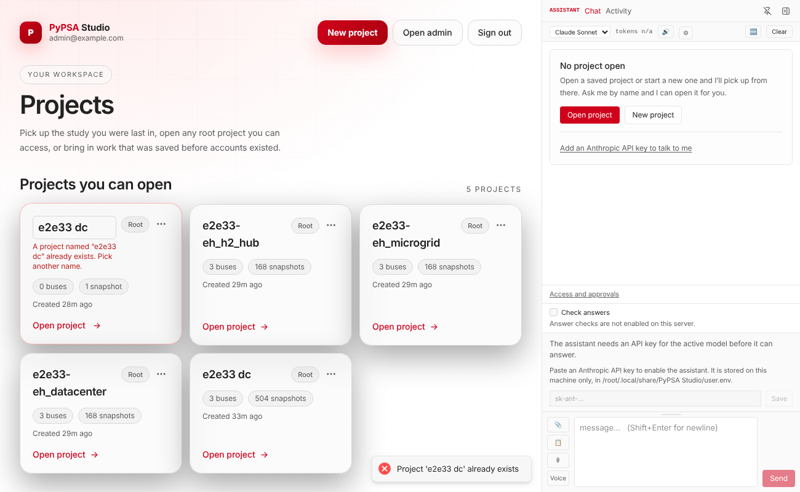
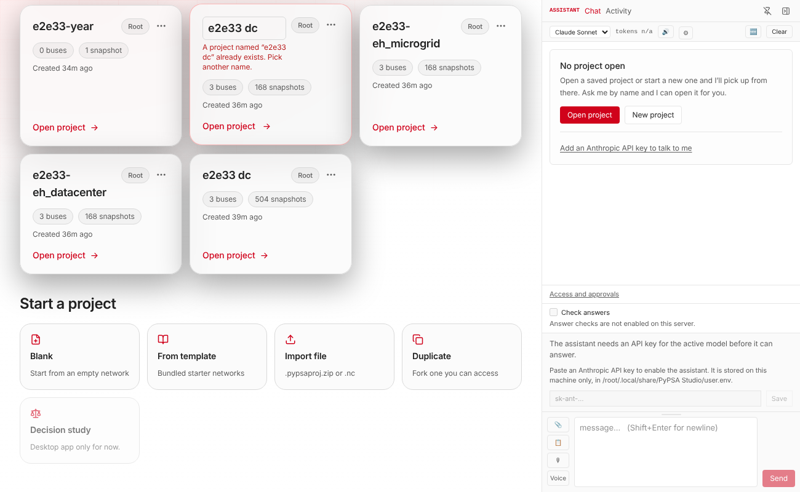
Card rename: refusal shows inline only, no global toast
Claude-Session: https://claude.ai/code/session_01G7qCuk6x8BhGjhotudeUKy

diff --git a/pypsa-gui/frontend/src/pages/projectsHome/ProjectCardMenu.test.tsx b/pypsa-gui/frontend/src/pages/projectsHome/ProjectCardMenu.test.tsx
@@ -4,7 +4,8 @@ import { QueryClient, QueryClientProvider } from '@tanstack/react-query'
 import type { ProjectInfo } from '../../api/types'
 
 const api = vi.hoisted(() => ({ rename: vi.fn(), del: vi.fn(), reset: vi.fn() }))
-vi.mock('../../api/projects', () => ({ projectsApi: { rename: api.rename, delete: api.del } }))
+vi.mock('../../api/projects', () => ({ projectsApi: { delete: api.del } }))
+vi.mock('../../api/client', () => ({ default: { post: api.rename }, formatApiDetail: (d: unknown, f: string) => (typeof d === 'string' ? d : f) }))
 vi.mock('../../api/network', () => ({ networkApi: { resetNetwork: api.reset } }))
 vi.mock('../ScenariosPanel', () => ({ describeDescendants: (_d: unknown, n: string) => `'${n}' has children. Delete it and all of them?` }))
 
@@ -66,14 +67,14 @@ describe('ProjectCardMenu', () => {
 describe('InlineRename', () => {
   it('renames and keeps the open project in step', async () => {
     useUIStore.setState({ currentProject: 'Alpha' })
-    api.rename.mockResolvedValue({})
+    api.rename.mockResolvedValue({ data: {} })
     const done = vi.fn()
     wrap(<InlineRename project={P} onDone={done} />)
     const input = screen.getByTestId('project-rename-input')
     fireEvent.change(input, { target: { value: 'Beta' } })
     fireEvent.keyDown(input, { key: 'Enter' })
     await waitFor(() => expect(done).toHaveBeenCalled())
-    expect(api.rename).toHaveBeenCalledWith('p1', 'Beta')
+    expect(api.rename).toHaveBeenCalledWith('/projects/p1/rename', { new_name: 'Beta' }, { skipErrorToast: true })
   })
   it('a name clash reads in words with curly quotes', async () => {
     api.rename.mockRejectedValue({ response: { data: { detail: "Project 'Beta' already exists" } }, message: 'x' })

diff --git a/pypsa-gui/frontend/src/pages/projectsHome/ProjectCardMenu.tsx b/pypsa-gui/frontend/src/pages/projectsHome/ProjectCardMenu.tsx
@@ -7,6 +7,7 @@ import { useMutation, useQueryClient } from '@tanstack/react-query'
 import { MoreHorizontal } from 'lucide-react'
 import toast from 'react-hot-toast'
 import { projectsApi } from '../../api/projects'
+import client from '../../api/client'
 import { networkApi } from '../../api/network'
 import { formatApiDetail } from '../../api/client'
 import type { ProjectInfo } from '../../api/types'
@@ -113,7 +114,10 @@ export function InlineRename({ project, onDone }: { project: ProjectInfo; onDone
   useEffect(() => { ref.current?.focus(); ref.current?.select() }, [])
 
   const save = useMutation({
-    mutationFn: (to: string) => projectsApi.rename(project.id || project.name, to),
+    // Same route as projectsApi.rename; the refusal shows inline, so no global toast.
+    mutationFn: (to: string) => client.post<ProjectInfo>(
+      `/projects/${encodeURIComponent(project.id || project.name)}/rename`,
+      { new_name: to }, { skipErrorToast: true }).then(r => r.data),
     onSuccess: (_r, to) => {
       const s = useUIStore.getState()
       if (s.currentProject === project.name) s.renameProject(project.name, to)
